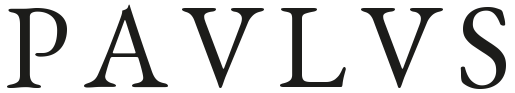
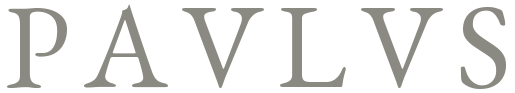
Marca PAVLVS dos e-mails em cinza médio: aparece no tema claro e no escuro

diff --git a/worker/admin.js b/worker/admin.js
@@ -688,8 +688,8 @@ export function htmlDoEmail({ titulo = "", texto = "", botao = "", link = "", pr
     (pre ? '<div style="display:none;max-height:0;overflow:hidden">' + esc(pre) + "</div>" : "") +
     '<div style="max-width:560px;margin:0 auto;padding:32px 24px">' +
     // A marca em EB Garamond (site/assets/pavlvs-marca.png): o e-mail não carrega fonte da internet.
-    '<div style="margin-bottom:24px"><img src="https://paulus.ia.br/assets/pavlvs-marca.png" width="120" height="22" alt="PAVLVS" ' +
-    'style="display:block;border:0;font:400 18px Georgia,serif;letter-spacing:.12em;color:#1c1c1a"></div>' +
+    '<div style="margin-bottom:24px"><img src="https://paulus.ia.br/assets/pavlvs-marca.png?v=2" width="120" height="22" alt="PAVLVS" ' +
+    'style="display:block;border:0;font:400 18px Georgia,serif;letter-spacing:.12em;color:#8a8982"></div>' +
     (titulo ? '<h1 style="margin:0 0 18px;font:400 26px/1.2 Georgia,serif;color:#1c1c1a">' + esc(titulo) + "</h1>" : "") + paragrafos +
     (botao && link ? '<p style="margin:24px 0"><a href="' + esc(link) + '" style="display:inline-block;padding:10px 22px;border-radius:8px;background:#2a2a27;color:#f2f1ec;font:500 14px Arial,sans-serif;text-decoration:none">' + esc(botao) + "</a></p>" : "") +
     '<p style="margin:32px 0 0;padding-top:14px;border-top:1px solid #e2e1db;font:400 12px Arial,sans-serif;color:#77766f">PAVLVS · Este e-mail é automático e não recebe respostas. Dúvidas ou para não receber mais avisos: contato@paulus.ia.br</p>' +
